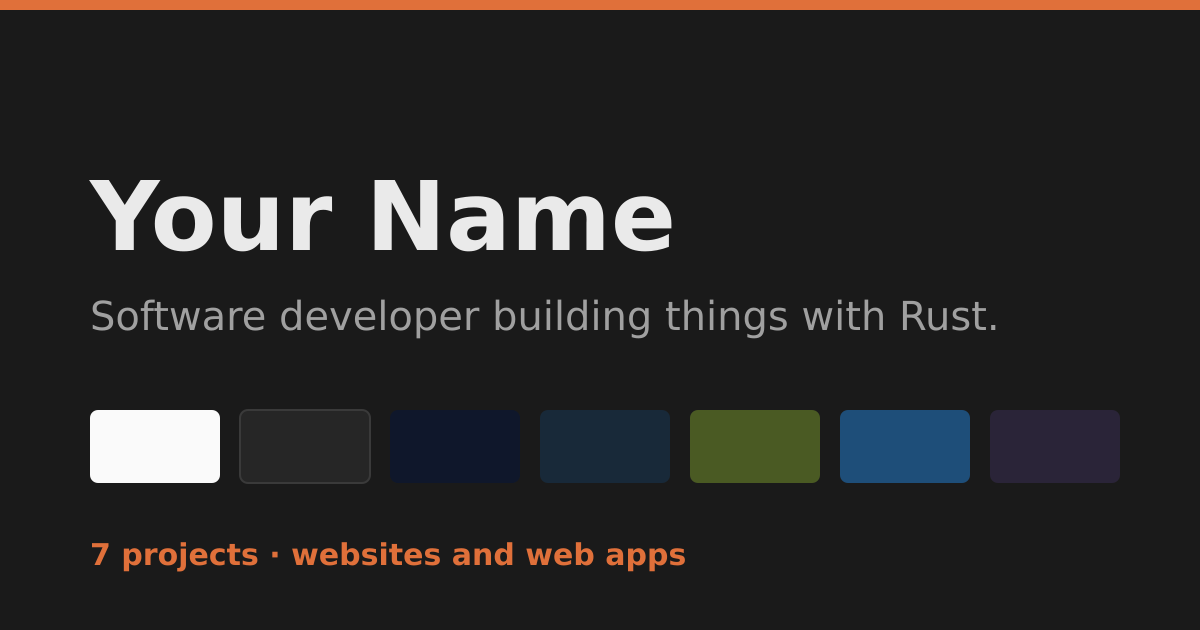
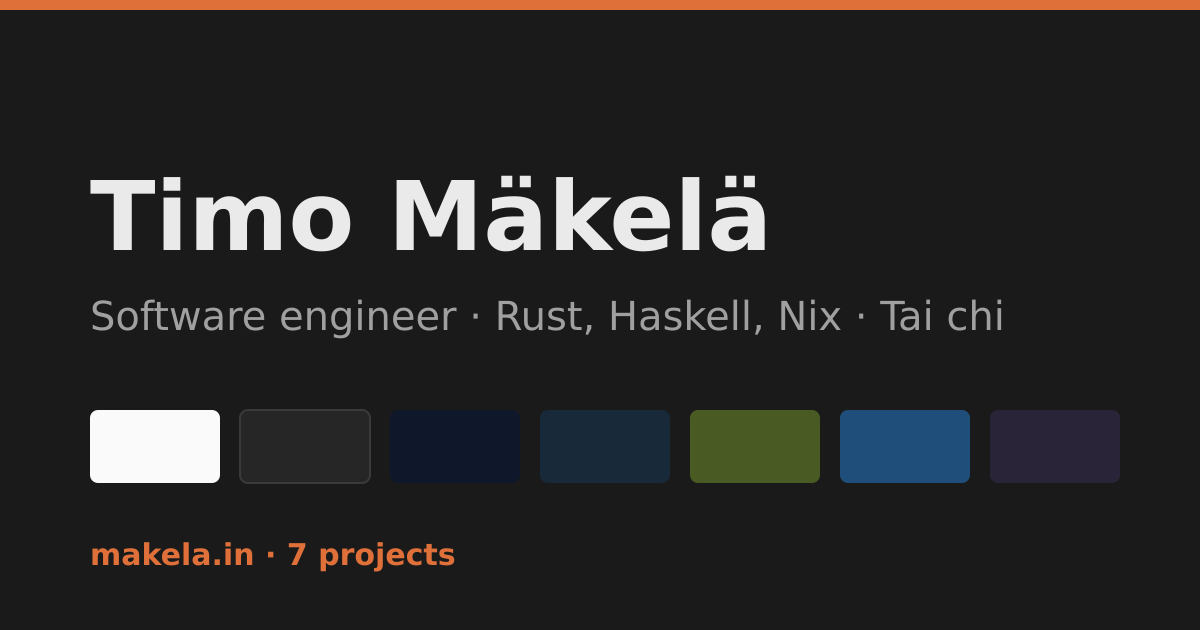
Add real name, tagline and intro
Replace the "Your Name" placeholders with content based on the resume:

- Name Timo Mäkelä; title "Timo Mäkelä — Software Engineer &
  Entrepreneur" (46 chars).
- Tagline: self-employed software engineer in Finland building websites
  and web apps with Rust, Haskell and Nix, and teaching tai chi.
- New intro paragraph about nearly twenty years of software for
  healthcare, laboratory testing, bioinformatics and telecoms.
- Meta description (148 chars) mentions Finland, Rust, Haskell (IHP)
  and Nix.
- JSON-LD Person gains jobTitle "Software Engineer" and addressCountry
  FI (country only, no city or contact details).
- Social preview re-rendered with the name and makela.in.

diff --git a/static/style.css b/static/style.css
@@ -37,7 +37,9 @@ body {
 
 .hero { padding: 4rem 0 2rem; }
 .hero h1 { margin: 0; font-size: clamp(2rem, 5vw, 3rem); }
-.hero p { margin: 0.5rem 0 0; color: var(--muted); font-size: 1.15rem; }
+.hero p { margin: 0.5rem 0 0; color: var(--muted); max-width: 65ch; }
+.hero .tagline { font-size: 1.15rem; color: var(--fg); }
+.hero .intro { margin-top: 1rem; }
 
 .grid {
   display: grid;

diff --git a/src/site.rs b/src/site.rs
@@ -1,20 +1,33 @@
 //! Site identity and configuration used by the page and the SEO files.
 //!
-//! The texts here are placeholders until the real name and intro are written;
-//! after changing them, regenerate the social preview with `just og-image`.
+//! After changing the name or texts, update design/og-image.svg to match and
+//! regenerate the social preview with `just og-image`.
 
 /// Name shown in the heading, footer, title and structured data.
-pub(crate) const NAME: &str = "Your Name";
+pub(crate) const NAME: &str = "Timo Mäkelä";
 
 /// Page `<title>`: keep it under ~60 characters so search results don't cut it.
-pub(crate) const TITLE: &str = "Your Name — Portfolio";
+pub(crate) const TITLE: &str = "Timo Mäkelä — Software Engineer & Entrepreneur";
+
+/// Job title in the structured data.
+pub(crate) const JOB_TITLE: &str = "Software Engineer";
+
+/// Country in the structured data (ISO 3166-1 alpha-2).
+pub(crate) const COUNTRY: &str = "FI";
 
 /// One-line intro under the heading.
-pub(crate) const TAGLINE: &str = "Software developer building things with Rust.";
+pub(crate) const TAGLINE: &str = "Self-employed software engineer in Finland. I build websites \
+     and web apps with Rust, Haskell and Nix — and teach tai chi.";
+
+/// Short paragraph under the tagline.
+pub(crate) const INTRO: &str = "For nearly twenty years I've built software for healthcare, \
+     laboratory testing, bioinformatics and telecommunications — from command-line tooling to \
+     interactive visualizations and reports. Today I work remotely on my own schedule, which \
+     leaves room for my other passion: tai chi.";
 
 /// Snippet for search results and link previews (aim for 120–160 characters).
-pub(crate) const DESCRIPTION: &str = "Portfolio of Your Name: websites and web apps built \
-     with Rust and Haskell (IHP), including tai chi club sites, a blog and an online order form.";
+pub(crate) const DESCRIPTION: &str = "Timo Mäkelä, self-employed software engineer in Finland: \
+     websites and web apps built with Rust, Haskell (IHP) and Nix, including tai chi club sites.";
 
 /// Profiles that belong to the same person (e.g. GitHub), listed as
 /// `sameAs` in the structured data so search engines can connect them.
@@ -23,9 +36,9 @@ pub(crate) const SAME_AS: &[&str] = &[GITHUB];
 /// GitHub profile, also linked in the footer.
 pub(crate) const GITHUB: &str = "https://github.com/makela";
 
-/// Social preview image (1200×630 PNG, generated from og-image.svg).
+/// Social preview image (1200×630 PNG, generated from design/og-image.svg).
 pub(crate) const OG_IMAGE: &str = "/static/og-image.png";
-pub(crate) const OG_IMAGE_ALT: &str = "Your Name — Portfolio";
+pub(crate) const OG_IMAGE_ALT: &str = "Timo Mäkelä — Software Engineer & Entrepreneur";
 
 /// Runtime configuration.
 #[derive(Debug, Clone)]

diff --git a/src/seo.rs b/src/seo.rs
@@ -55,10 +55,16 @@ pub(crate) fn person_json_ld(config: &Config) -> String {
     let mut json = String::from("{\"@context\":\"https://schema.org\",\"@type\":\"Person\"");
     let _ = write!(
         json,
-        ",\"name\":{},\"url\":{},\"image\":{}",
+        ",\"name\":{},\"jobTitle\":{},\"url\":{},\"image\":{}",
         json_string(site::NAME),
+        json_string(site::JOB_TITLE),
         json_string(&config.absolute("/")),
         json_string(&config.absolute(&assets::url(site::OG_IMAGE))),
+    );
+    let _ = write!(
+        json,
+        ",\"address\":{{\"@type\":\"PostalAddress\",\"addressCountry\":{}}}",
+        json_string(site::COUNTRY)
     );
     if !site::SAME_AS.is_empty() {
         let profiles: Vec<String> = site::SAME_AS.iter().map(|url| json_string(url)).collect();

diff --git a/src/templates.rs b/src/templates.rs
@@ -51,7 +51,8 @@ pub(crate) fn index(config: &Config) -> Markup {
             body {
                 header.hero {
                     h1 { (site::NAME) }
-                    p { (site::TAGLINE) }
+                    p.tagline { (site::TAGLINE) }
+                    p.intro { (site::INTRO) }
                 }
                 main {
                     (projects_section())
